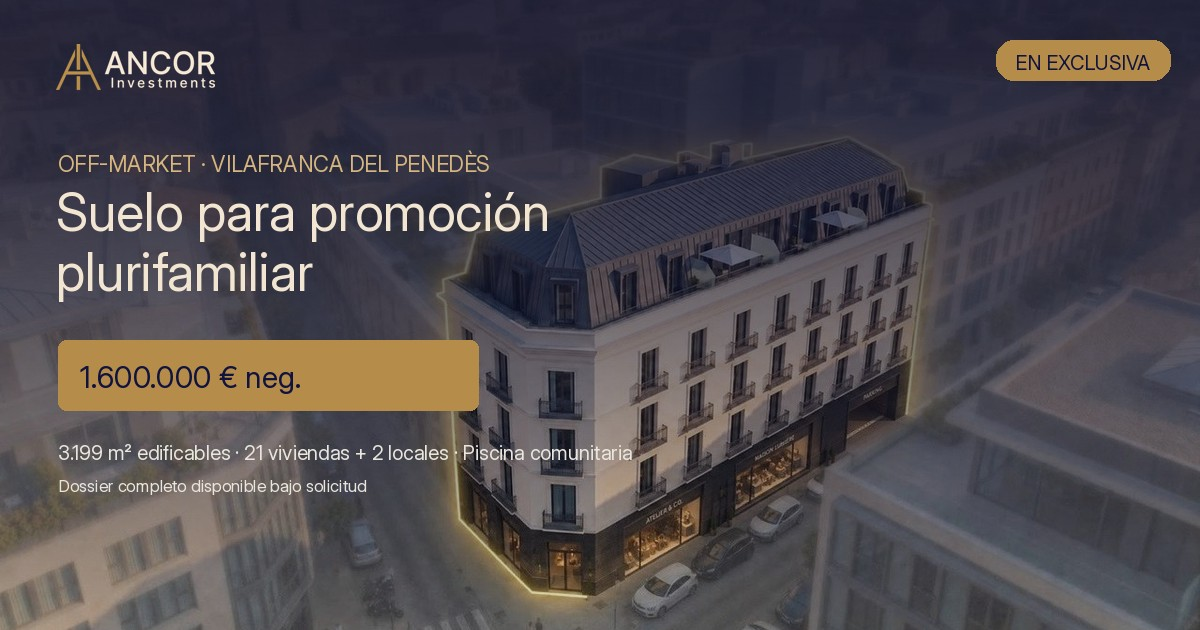
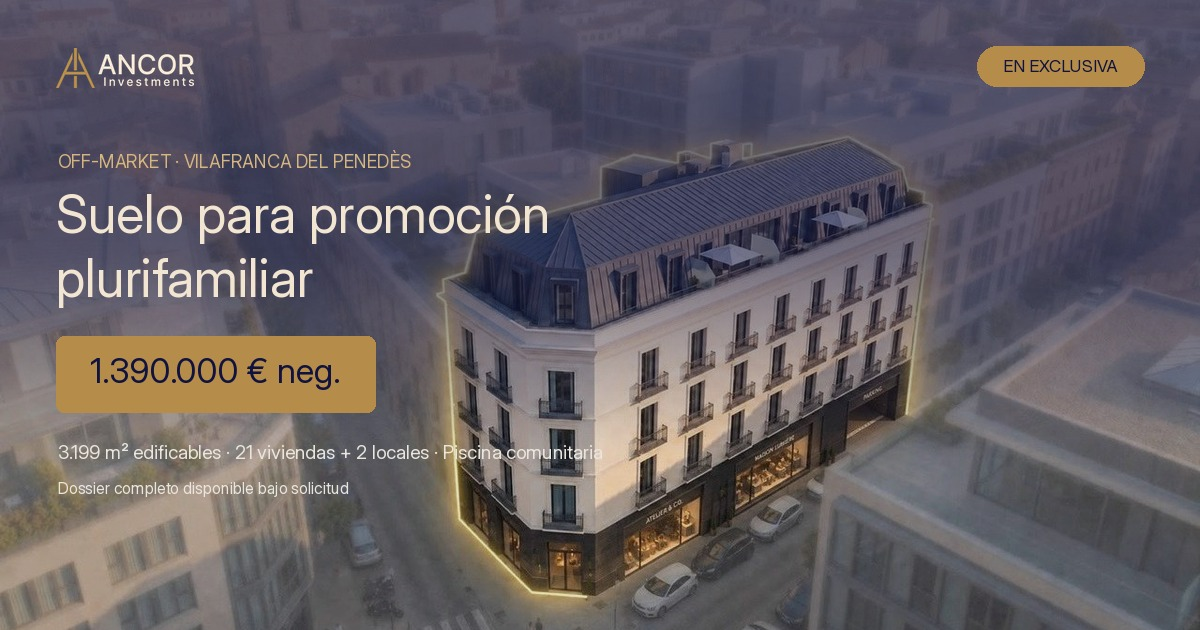
Add files via upload

diff --git a/index.html b/index.html
@@ -16,14 +16,14 @@
 
 <meta property="og:type" content="website">
 <meta property="og:site_name" content="Ancor Investments">
-<meta property="og:title" content="Suelo Plurifamiliar — Vilafranca del Penedès | 1.600.000 € negociable">
+<meta property="og:title" content="Suelo Plurifamiliar — Vilafranca del Penedès | 1.390.000 € negociable">
 <meta property="og:description" content="3.199 m² edificables en pleno centro de Vilafranca del Penedès. 21 viviendas + 2 locales, piscina comunitaria. Oportunidad off-market.">
 <meta property="og:image" content="assets/og-image.jpg">
 <meta property="og:image:width" content="1200">
 <meta property="og:image:height" content="630">
 <meta name="twitter:card" content="summary_large_image">
 <meta name="twitter:title" content="Suelo Plurifamiliar — Vilafranca del Penedès">
-<meta name="twitter:description" content="3.199 m² edificables · 21 viviendas + 2 locales · 1.600.000 € negociable">
+<meta name="twitter:description" content="3.199 m² edificables · 21 viviendas + 2 locales · 1.390.000 € negociable">
 <meta name="twitter:image" content="assets/og-image.jpg">
 
 <style>
@@ -384,7 +384,7 @@
       <div class="hero-price">
         <span class="ribbon-exclusive">En exclusiva</span>
         <span class="hp-label">Precio de venta · negociable</span>
-        <span class="hp-num">1.600.000 €</span>
+        <span class="hp-num">1.390.000 €</span>
       </div>
     </div>
 
@@ -608,7 +608,7 @@
   <div class="container">
     <div class="reveal">
       <span class="price-tag">En exclusiva · precio negociable</span>
-      <div class="price-big">1.600.000 €</div>
+      <div class="price-big">1.390.000 €</div>
       <p class="price-sub">Certificado urbanístico vigente · disponibilidad inmediata · operación sujeta a IVA.</p>
       <div class="price-cta">
         <a href="https://wa.me/34672669381?text=Hola%2C%20me%20interesa%20el%20suelo%20de%20Vilafranca%20del%20Pened%C3%A8s" target="_blank" class="btn btn-primary">
